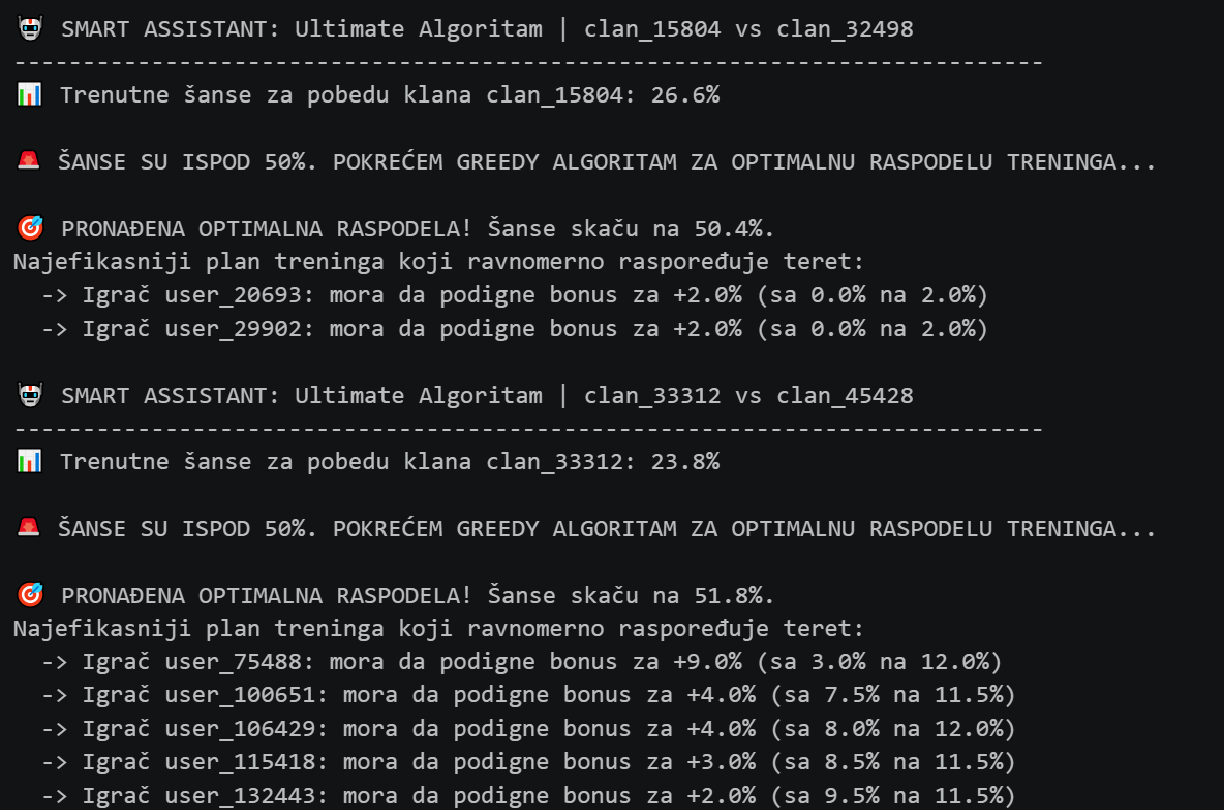
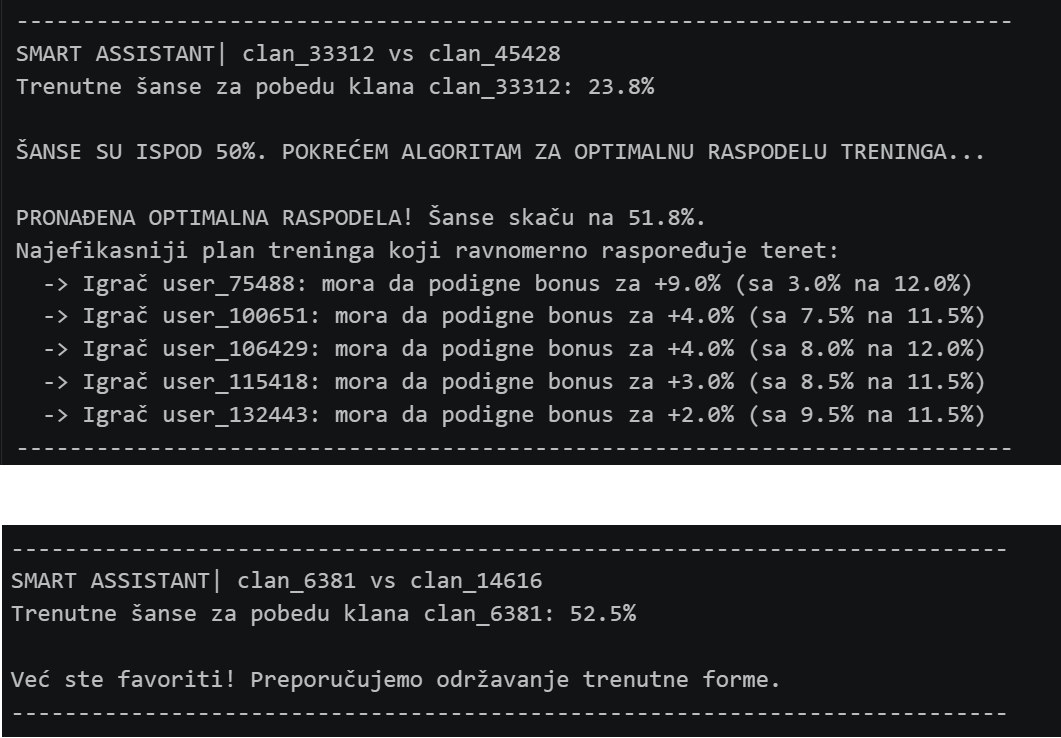
bot verzija 2, slika

diff --git a/README.md b/README.md
@@ -27,3 +27,15 @@ Kod je podeljen na 2 dela:
 - Selekcija feature-a: Zadržao sam samo ono što stvarno radi – minimumi i proseci trening bonusa.
 
 - Optimizacija: Koristio sam Optuna biblioteku za traženje najboljih hiperparametara za XGBoost i StratifiedKFold (5 foldova) kako bih bio siguran da model ne overfituje.
+
+
+3. Bonus Task: Smart Assistant
+
+- Poslovna vrednost (Business Value): Umesto generičkih saveta ("trenirajte više"), bot koristi ML model kao simulator da igračima ispiše tačan i najjeftiniji plan treninga potreban za pobedu.
+
+- Ciljana logika (>50% win rate): Ako klan gubi, bot pronalazi optimalan način da prebaci 50% šanse (spašavanje jednim igračem ili mobilizacija celog klana). Ako klan već vodi, traži Sweet Spot da dodatno osigura pobedu.
+
+- Greedy Algoritam i "Shifting Minimum": Bot rešava problem pomerajućeg minimuma tako što iterativno pronalazi trenutno najgoreg igrača, dodaje mu samo +1% bonusa, preračunava novu snagu klana i pita model za nove šanse. Teret treninga se tako savršeno i ravnomerno raspoređuje na najslabije karike.
+
+- Prepoznavanje "Nemoguće misije": Bot iščitava apsolutni maksimum iz podataka. Ako shvati da čak ni maksimalan trening ne donosi pobedu zbog lošijih osnovnih atributa (zvezdica), savetuje igračima da čuvaju resurse za sledeći meč.
+
